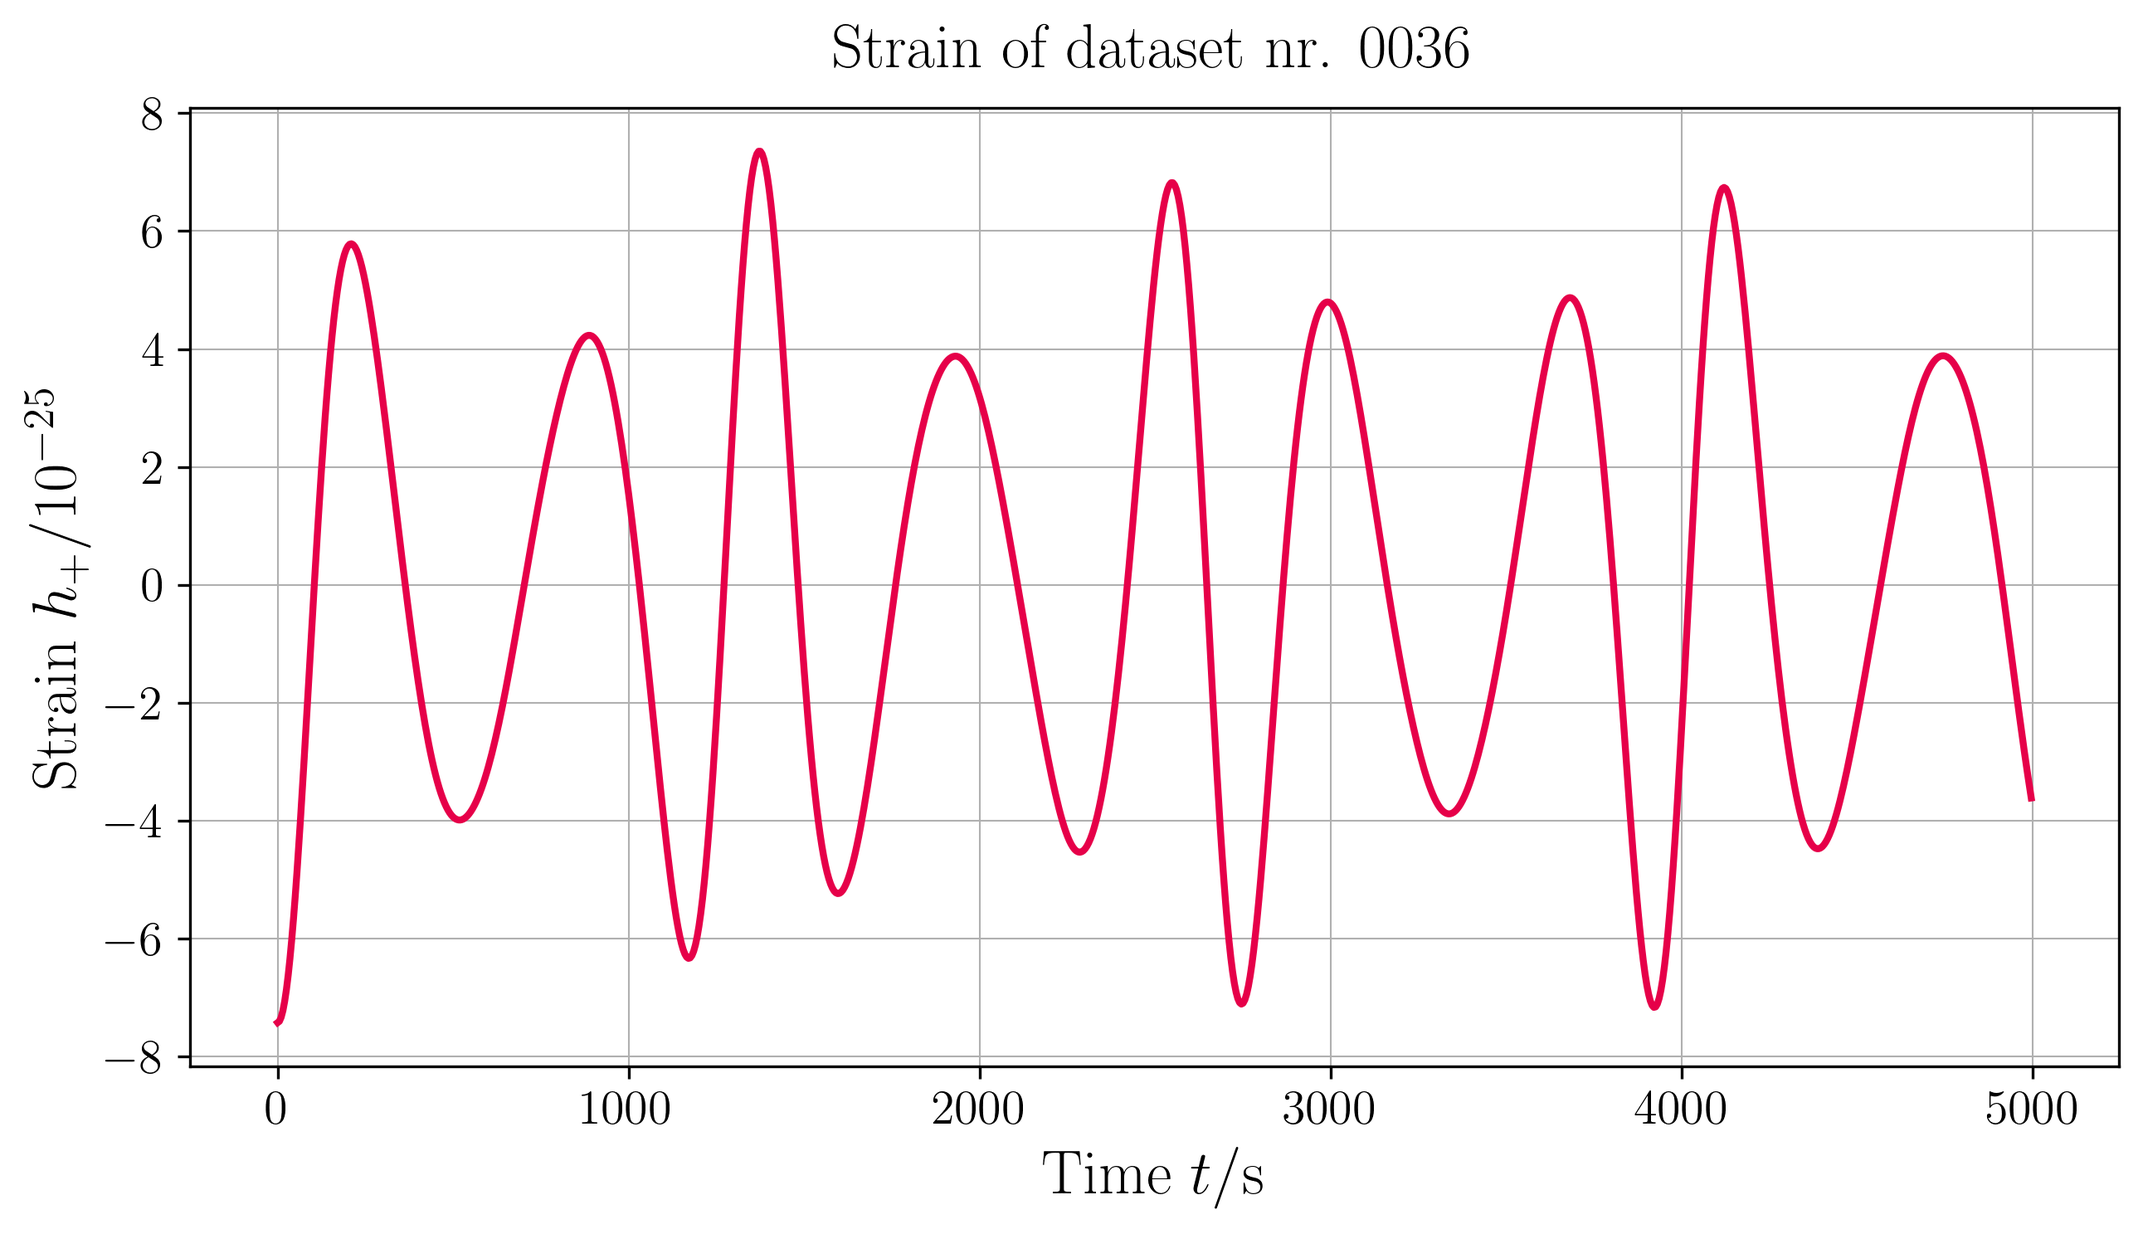
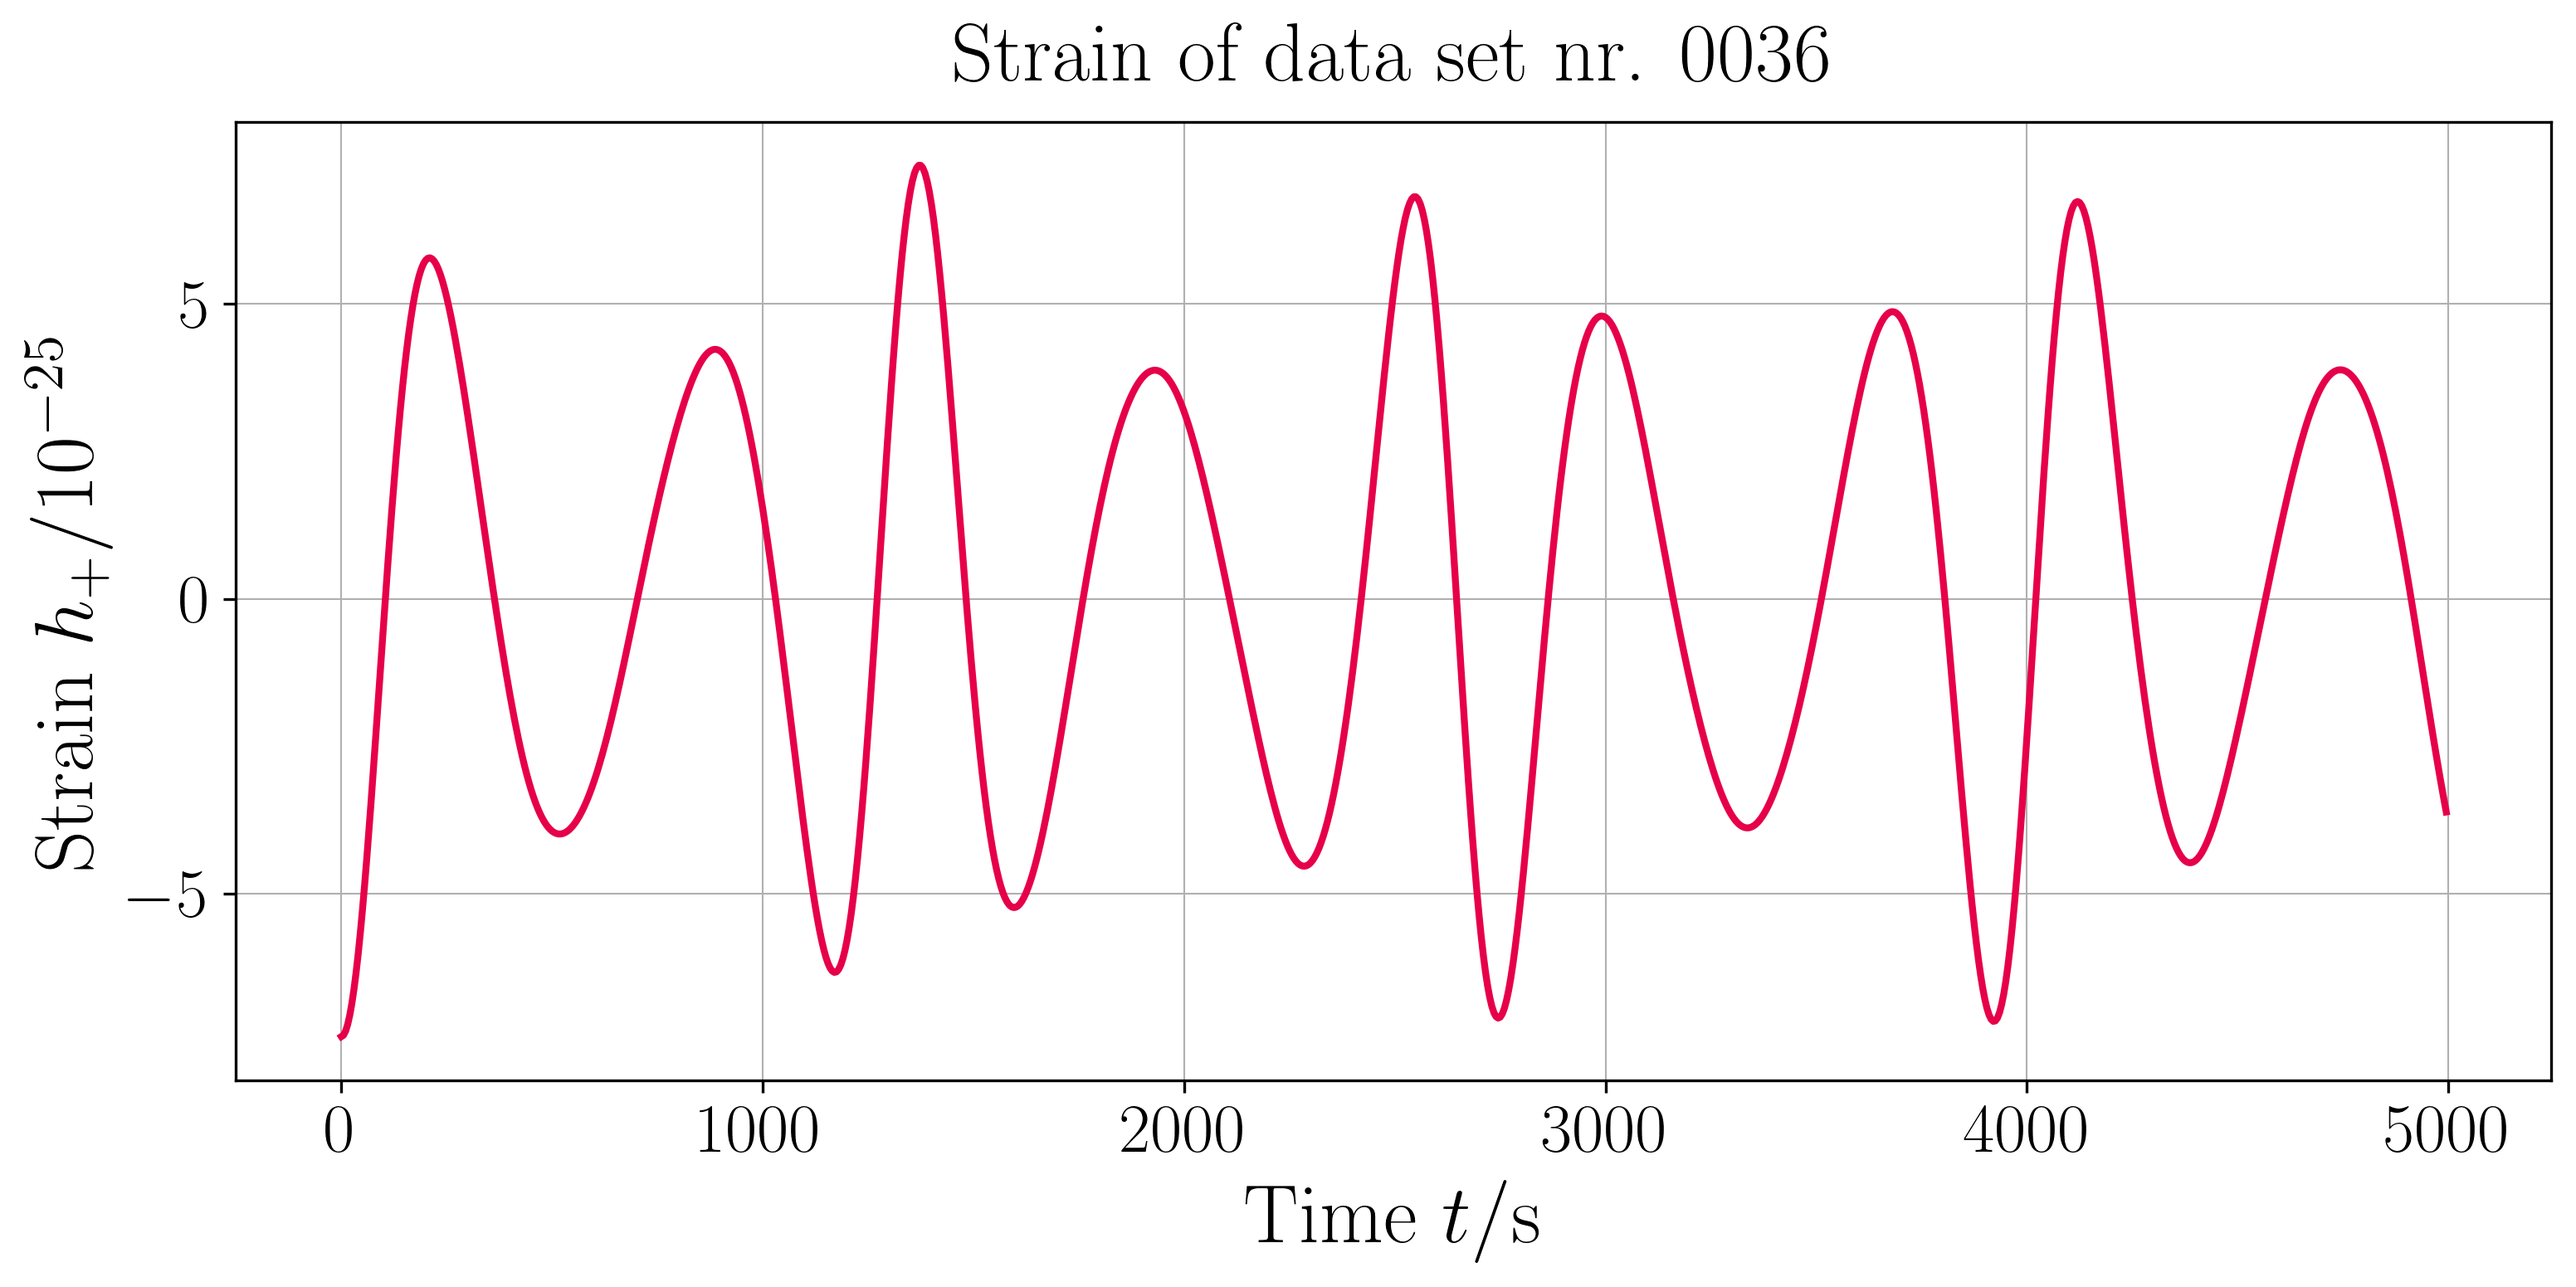
specs del

diff --git a/thesis_plots/plot.py b/thesis_plots/plot.py
@@ -9,10 +9,10 @@ plt.rcParams['axes.formatter.useoffset'] = False
 plt.rcParams['lines.linewidth'] = 2
 plt.rcParams['errorbar.capsize'] = 2
 plt.rcParams['grid.linewidth'] = 0.5
-plt.rcParams['axes.labelsize'] = 18
-plt.rcParams['axes.titlesize'] = 18
-plt.rcParams['xtick.labelsize'] = 14
-plt.rcParams['ytick.labelsize'] = 14
+plt.rcParams['axes.labelsize'] = 24
+plt.rcParams['axes.titlesize'] = 24
+plt.rcParams['xtick.labelsize'] = 20
+plt.rcParams['ytick.labelsize'] = 20
 plt.rcParams['legend.title_fontsize'] = 14
 plt.rcParams['legend.fontsize'] = 14
 plt.rcParams['savefig.dpi'] = 300
@@ -20,7 +20,7 @@ plt.rcParams['savefig.bbox'] = 'tight'
 plt.rcParams['savefig.pad_inches'] = 0.1
 
 #plt.rcParams['savefig.transparent'] = True
-plt.rcParams['figure.figsize'] = (10, 5)
+plt.rcParams['figure.figsize'] = (12, 5)
 
 n = 36
 
@@ -28,7 +28,6 @@ parameter = np.genfromtxt("/hpcwork/cg457676/data/parameters/parameters_0.csv", 
 strain = np.genfromtxt("/hpcwork/cg457676/data/strains/h_{:05}.csv".format(n), delimiter = ",", dtype = complex)
 spec = np.swapaxes(np.genfromtxt("/hpcwork/cg457676/data/spectrograms/spec_{:05}.csv".format(n), delimiter = ","), 0, 1)
 
-print(len(strain))
 
 np.savetxt("./thesis_plots/chapter_4/parameter.csv", parameter, delimiter = ",")
 
@@ -44,7 +43,7 @@ y = strain[: N].real
 ax.plot(t, y * 1E25, color = "#e60049")
 ax.set_ylabel("Strain $h_+ / 10^{-25}$")
 ax.set_xlabel("Time $t / \mathrm{s}$")
-ax.set_title("Strain of dataset nr. {:04}".format(n), y = 1.02)
+ax.set_title("Strain of data set nr. {:04}".format(n), y = 1.02)
 
 ax.grid()
 
@@ -71,8 +70,8 @@ ax.set_ylabel("Frequency $f$")
 ax.set_xlabel("Time $t$ in days")
 # ax.colorbar(label=r'Gravitational wave amplitude [1/$\sqrt{\mathrm{Hz}}$]')
 
-plt.colorbar(pc, label=r'Gravitational wave amplitude [1/$\sqrt{\mathrm{Hz}}$]')
-ax.set_title("Spectrogram of dataset nr. {:04}".format(n), y = 1.02)
+plt.colorbar(pc, label=r'GW amplitude [1/$\sqrt{\mathrm{Hz}}$]')
+ax.set_title("Spectrogram of data set nr. {:04}".format(n), y = 1.02)
 
 
 ax.grid(False)

diff --git a/thesis_plots/corr.py b/thesis_plots/corr.py
@@ -24,27 +24,27 @@ plt.rcParams['savefig.pad_inches'] = 0.1
 #plt.rcParams['savefig.transparent'] = True
 plt.rcParams['figure.figsize'] = (10, 6)
 
+title = ["$\log_{10} M / M_\odot$", "$d_L$", "$a$", "$e_0$", "$p_0 / M$"]
 
-data = pd.read_csv("/hpcwork/cg457676/data/parameters/parameters_0.csv", delimiter = ",", names = ["Mass", "Distance", "Spin", "Eccentricity", "Seperation"])
+data = pd.read_csv("/hpcwork/cg457676/data/parameters/parameters_0.csv", delimiter = ",", names = title)
 
 for i in range(1, 10):
-    d = data = pd.read_csv("/hpcwork/cg457676/data/parameters/parameters_{}.csv".format(i), delimiter = ",", names = ["Mass", "Distance", "Spin", "Eccentricity", "Seperation"])
+    d = data = pd.read_csv("/hpcwork/cg457676/data/parameters/parameters_{}.csv".format(i), delimiter = ",", names = title)
     data.append(d)
 
-data["Mass"] = np.log10(data["Mass"])
+data[title[0]] = np.log10(data[title[0]])
 
 print(np.min(data), np.max(data))
 
 sns.set_theme()
 
-plot = sns.PairGrid(data, height = 2)
+plot = sns.PairGrid(data, height = 1.5)
 
 plot.map_upper(sns.kdeplot, fill = True)
 plot.map_lower(sns.scatterplot, s = 5)
 plot.map_diag(sns.histplot, kde=True)
 
 
-plot.fig.suptitle('Distributions and Correlations of the generated Parameter', y = 1.02)
 plt.savefig("./thesis_plots/chapter_4/corr.png")
 
 # plot.fig.suptitle('Correlations in run {}'.format(n_run))

diff --git a/Network/test_programme/plot_spec.py b/Network/test_programme/plot_spec.py
@@ -22,7 +22,7 @@ plt.rcParams['savefig.pad_inches'] = 0.1
 #plt.rcParams['savefig.transparent'] = True
 plt.rcParams['figure.figsize'] = (14, 6)
 
-s = 20
+s = 40
 n_data = 20
 
 parameter = np.genfromtxt("/hpcwork/cg457676/data/parameters/parameters_0.csv", delimiter = ",")[s : s + n_data]
